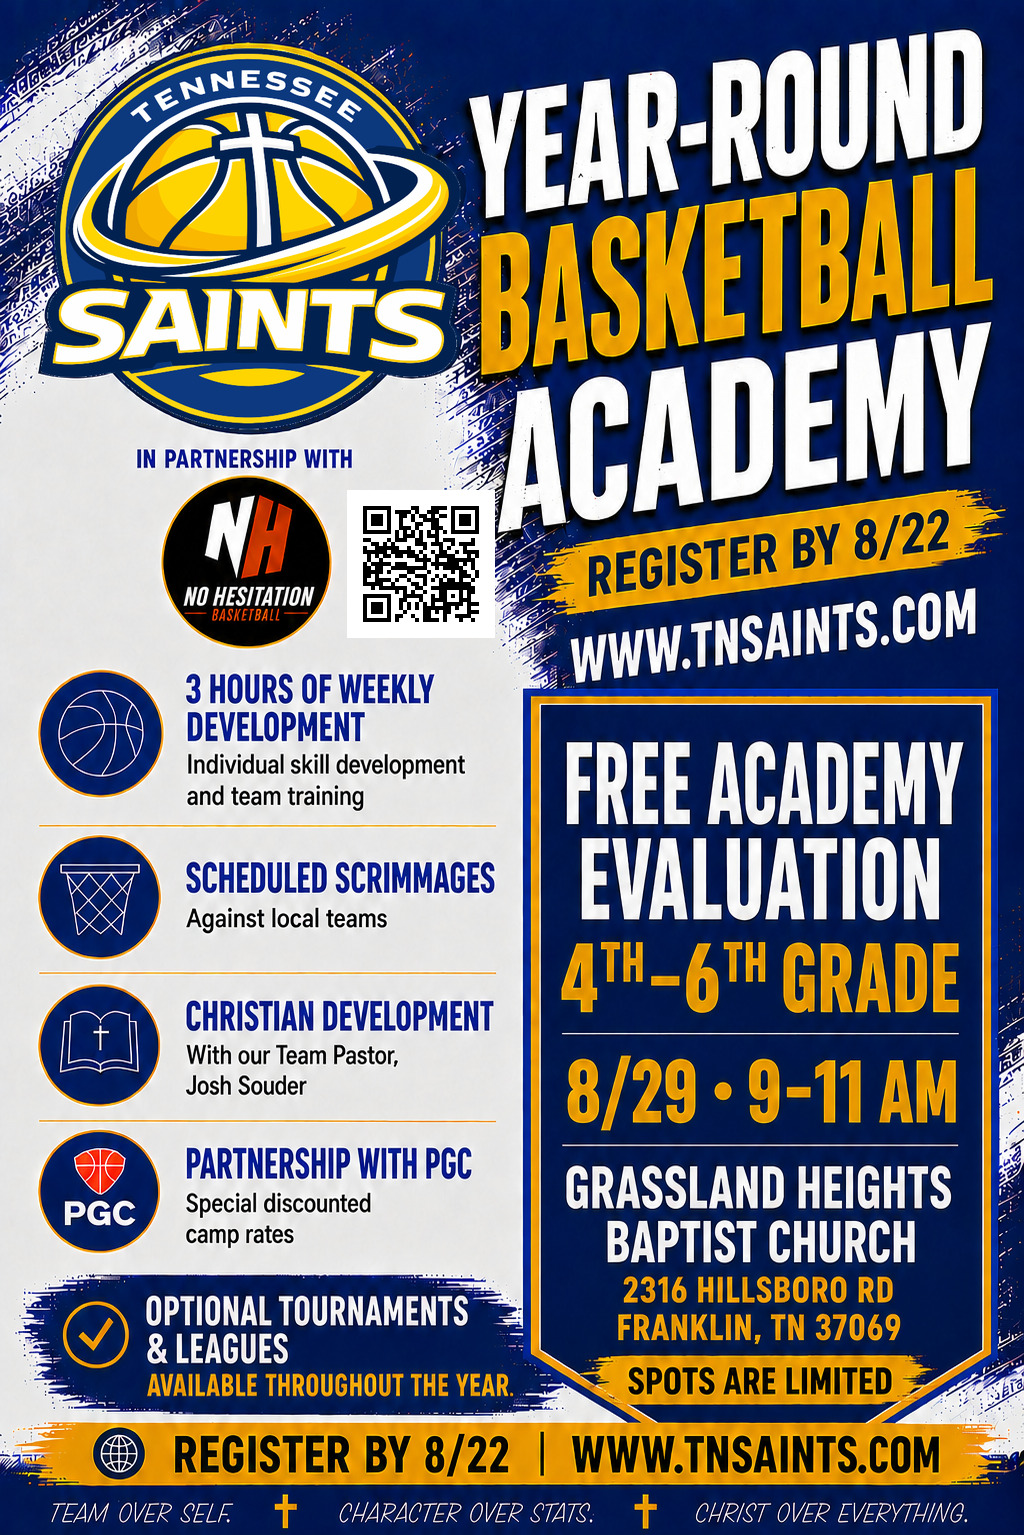
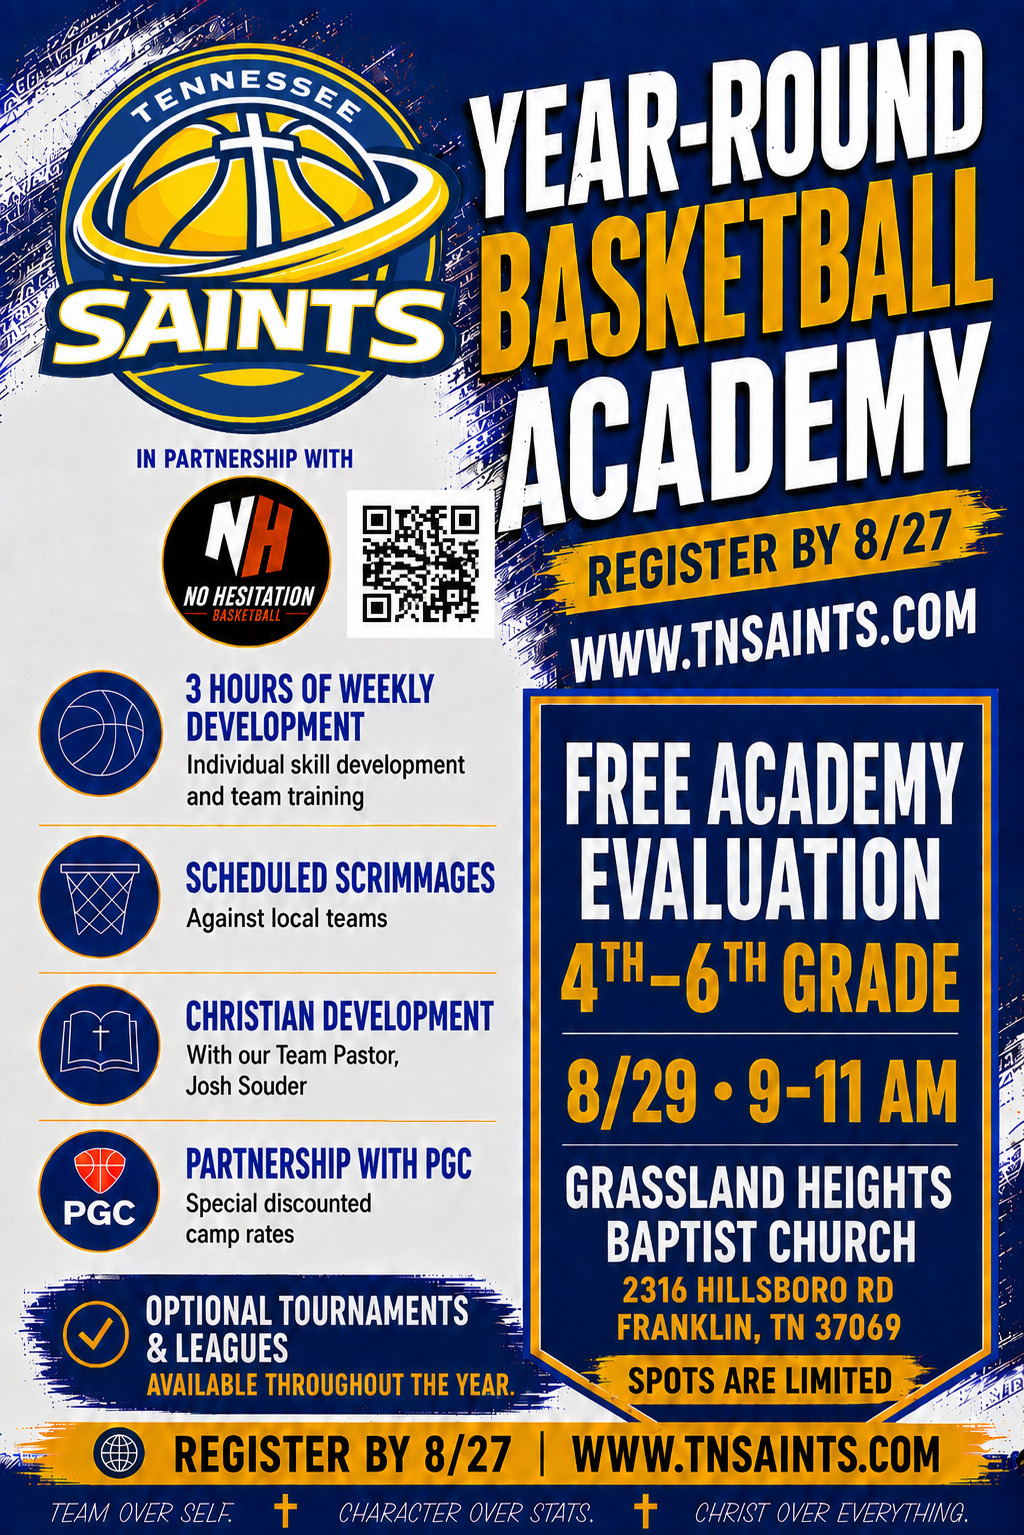
Move the signup deadline from 8/22 to 8/27 (more recruiting time)
The owner is extending the registration window by five days. Change the
date everywhere it lives:

- Backend gate: REGISTRATION_CLOSES_AT 2026-08-22 -> 2026-08-27 (this is
  what actually closes signups; deployed and verified live).
- New flyer (already 8/27) converted to JPEG at the same filename, so the
  site's Download button and the email link serve it unchanged.
- Social share card re-cut as v4: the 8/27 flyer re-embedded and the
  left-panel "REGISTER BY 8/22" button repainted to 8/27 (calibrated to
  the card's own condensed digits); og:image/twitter:image bumped v3->v4
  to bust the platform cache; old v3 removed.
- Site copy: the evaluation-banner badge, the countdown deadline + label,
  the share-message text, the OG/Twitter descriptions and alt text.
- Email share text "closes 8/22" -> "8/27".

Event date (8/29) is unchanged; only the register-by date moved.

diff --git a/index.html b/index.html
@@ -22,7 +22,7 @@
                       Tennessee. We develop the whole player - mentally,
                       physically, and spiritually. -->
   <meta property="og:title" content="Free Academy Evaluation — Sat, Aug 29 | Tennessee Saints" />
-  <meta property="og:description" content="9–11 AM at Grassland Heights Baptist Church, Franklin TN. 4th–6th grade, spots are limited, register by 8/22. A year-round Christian academy developing the whole player — mentally, physically, and spiritually." />
+  <meta property="og:description" content="9–11 AM at Grassland Heights Baptist Church, Franklin TN. 4th–6th grade, spots are limited, register by 8/27. A year-round Christian academy developing the whole player — mentally, physically, and spiritually." />
   <!-- 1200x630 as Facebook and LinkedIn expect. The old value was a 500x500
        transparent PNG of the logo, which they letterbox and composite onto a
        flat colour — so every shared link showed a boxed logo instead of the
@@ -32,19 +32,19 @@
        the URL, separately from the page scrape, so re-running the Sharing
        Debugger will not replace an image at an unchanged path. If this card is
        ever re-cut, bump the -vN suffix rather than overwriting the file. -->
-  <meta property="og:image" content="https://tnsaints.com/social-card-v3.jpg" />
+  <meta property="og:image" content="https://tnsaints.com/social-card-v4.jpg" />
   <meta property="og:image:width" content="1200" />
   <meta property="og:image:height" content="630" />
-  <meta property="og:image:alt" content="Free Academy Evaluation, Saturday August 29, 9 to 11 AM, Grassland Heights Baptist Church, Franklin TN. Register by August 22 at tnsaints.com." />
+  <meta property="og:image:alt" content="Free Academy Evaluation, Saturday August 29, 9 to 11 AM, Grassland Heights Baptist Church, Franklin TN. Register by August 27 at tnsaints.com." />
   <meta property="og:url" content="https://tnsaints.com/" />
   <meta property="og:site_name" content="Tennessee Saints" />
   <meta property="og:locale" content="en_US" />
   <meta property="og:type" content="website" />
   <meta name="twitter:card" content="summary_large_image" />
   <meta name="twitter:title" content="Free Academy Evaluation — Sat, Aug 29 | Tennessee Saints" />
-  <meta name="twitter:description" content="9–11 AM at Grassland Heights Baptist Church, Franklin TN. 4th–6th grade, spots are limited, register by 8/22." />
-  <meta name="twitter:image" content="https://tnsaints.com/social-card-v3.jpg" />
-  <meta name="twitter:image:alt" content="Free Academy Evaluation, Saturday August 29, 9 to 11 AM, Grassland Heights Baptist Church, Franklin TN. Register by August 22 at tnsaints.com." />
+  <meta name="twitter:description" content="9–11 AM at Grassland Heights Baptist Church, Franklin TN. 4th–6th grade, spots are limited, register by 8/27." />
+  <meta name="twitter:image" content="https://tnsaints.com/social-card-v4.jpg" />
+  <meta name="twitter:image:alt" content="Free Academy Evaluation, Saturday August 29, 9 to 11 AM, Grassland Heights Baptist Church, Franklin TN. Register by August 27 at tnsaints.com." />
   <link rel="icon" href="Saints%20Logo%20Updated%20v2_transparent.png" type="image/png" />
   <link rel="apple-touch-icon" href="Saints%20Logo%20Updated%20v2_transparent.png" />
   <link rel="preconnect" href="https://cdnjs.cloudflare.com" crossorigin />
@@ -1355,7 +1355,7 @@
       opacity: 0.85;
     }
 
-    /* --- 8/29 evaluation banner. Auto-hides after the 8/22 deadline; safe to delete after. --- */
+    /* --- 8/29 evaluation banner. Auto-hides after the 8/27 deadline; safe to delete after. --- */
     .event-banner {
       display: none;
       position: relative;
@@ -1538,7 +1538,7 @@
   <link rel="stylesheet" href="https://cdnjs.cloudflare.com/ajax/libs/font-awesome/6.5.1/css/all.min.css" />
 </head>
 <body>
-  <!-- 8/29 evaluation banner. Auto-hides after the 8/22 deadline; safe to delete after.
+  <!-- 8/29 evaluation banner. Auto-hides after the 8/27 deadline; safe to delete after.
        Two presentations of the same announcement: the designed artwork on wide
        screens, and a text strip on narrow ones. A 6:1 banner scaled to a phone
        renders its headline about 8px tall, so the artwork is not a responsive
@@ -1554,7 +1554,7 @@
             <span class="ebc-date">8/29 &middot; 9&ndash;11 AM</span>
             <span class="ebc-pipe" aria-hidden="true"></span>
             <span>Franklin, TN</span>
-            <span class="ebc-badge">Register by 8/22</span>
+            <span class="ebc-badge">Register by 8/27</span>
             <span class="ebc-limited">Spots are limited</span>
             <span id="event-banner-countdown"></span>
           </p>
@@ -1831,7 +1831,7 @@
                 <select id="form-purpose" name="purpose" required>
                   <!-- Evaluation is first (and therefore the default) while
                        registration is open. initDefaultPurpose() falls back to
-                       General Contact once the 8/22 deadline passes. -->
+                       General Contact once the 8/27 deadline passes. -->
                   <option value="evaluation">Free Academy Evaluation Aug 2026</option>
                   <option value="general">General Contact</option>
                   <option value="player-interest">Academy Interest</option>
@@ -1879,7 +1879,7 @@
         <p>Spots are limited, so the fastest way to help is to pass it along.</p>
         <!-- Hand them the wording. Not knowing what to say is what actually
              stops people sharing, far more often than not finding a button. -->
-        <p class="share-copy-text" id="share-text">Tennessee Saints is hosting a FREE basketball evaluation for 4th&ndash;6th graders &mdash; Saturday, August 29, 9&ndash;11 AM in Franklin, TN. Spots are limited and registration closes 8/22. https://tnsaints.com</p>
+        <p class="share-copy-text" id="share-text">Tennessee Saints is hosting a FREE basketball evaluation for 4th&ndash;6th graders &mdash; Saturday, August 29, 9&ndash;11 AM in Franklin, TN. Spots are limited and registration closes 8/27. https://tnsaints.com</p>
         <div class="share-actions">
           <a class="share-btn share-fb" id="share-facebook" href="#" target="_blank" rel="noopener noreferrer">
             <i class="fab fa-facebook-f" aria-hidden="true"></i> Share on Facebook
@@ -1987,7 +1987,7 @@
     const TURNSTILE_SITE_KEY = IS_LOCAL
       ? '1x00000000000000000000AA'
       : '0x4AAAAAAEKmJntXjTbt2yuF';
-    const REGISTRATION_CLOSES_AT = new Date('2026-08-22T23:59:59-05:00');
+    const REGISTRATION_CLOSES_AT = new Date('2026-08-27T23:59:59-05:00');
 
     const todayIso = new Date().toISOString().slice(0, 10);
     const evaluationGateMessage = 'Registration requires a completed free evaluation first. Please submit the "Free Player Evaluation Request" form and we will schedule your date.';
@@ -2840,16 +2840,16 @@
     const footerYear = document.getElementById('footer-year');
     if (footerYear) footerYear.textContent = new Date().getFullYear();
 
-    // --- 8/29 evaluation banner. Auto-hides after the 8/22 deadline; safe to delete after. ---
+    // --- 8/29 evaluation banner. Auto-hides after the 8/27 deadline; safe to delete after. ---
     (function initEventBanner() {
       const banner = document.getElementById('event-banner');
       const closeBtn = document.getElementById('event-banner-close');
       const countdown = document.getElementById('event-banner-countdown');
       if (!banner || !closeBtn || !countdown) return;
 
-      // 11:59:59 PM Central on 8/22/2026. Explicit offset so the cutoff is the
+      // 11:59:59 PM Central on 8/27/2026. Explicit offset so the cutoff is the
       // same moment for every visitor regardless of their local timezone.
-      const deadline = new Date('2026-08-22T23:59:59-05:00');
+      const deadline = new Date('2026-08-27T23:59:59-05:00');
       const now = new Date();
 
       if (now > deadline || sessionStorage.getItem('tns-eval-banner-dismissed') === '1') {
@@ -2859,7 +2859,7 @@
       const msLeft = deadline - now;
       const daysLeft = Math.ceil(msLeft / 86400000);
       countdown.textContent =
-        daysLeft > 1 ? `Register by Aug 22 — ${daysLeft} days left`
+        daysLeft > 1 ? `Register by Aug 27 — ${daysLeft} days left`
                      : 'Registration closes tonight';
 
       banner.classList.add('show');

diff --git a/worker/src/email.js b/worker/src/email.js
@@ -384,7 +384,7 @@ function parentHtml(env, data, result) {
         <div style="background:#fff;border:1px solid #dfe3ea;border-left:3px solid #f5cf00;border-radius:6px;padding:12px 14px;margin:0 0 14px;font-size:14px;line-height:1.55;color:#13233d;">
           Tennessee Saints is hosting a FREE basketball evaluation for 4th&ndash;6th graders &mdash;
           Saturday, August 29, 9&ndash;11 AM in Franklin, TN. Spots are limited and registration
-          closes 8/22. https://tnsaints.com
+          closes 8/27. https://tnsaints.com
         </div>
         <a href="https://www.facebook.com/sharer/sharer.php?u=https%3A%2F%2Ftnsaints.com%2F"
            style="display:inline-block;background:#1877f2;color:#fff;text-decoration:none;font-weight:700;font-size:14px;padding:10px 16px;border-radius:8px;margin:0 6px 6px 0;">Share on Facebook</a>
